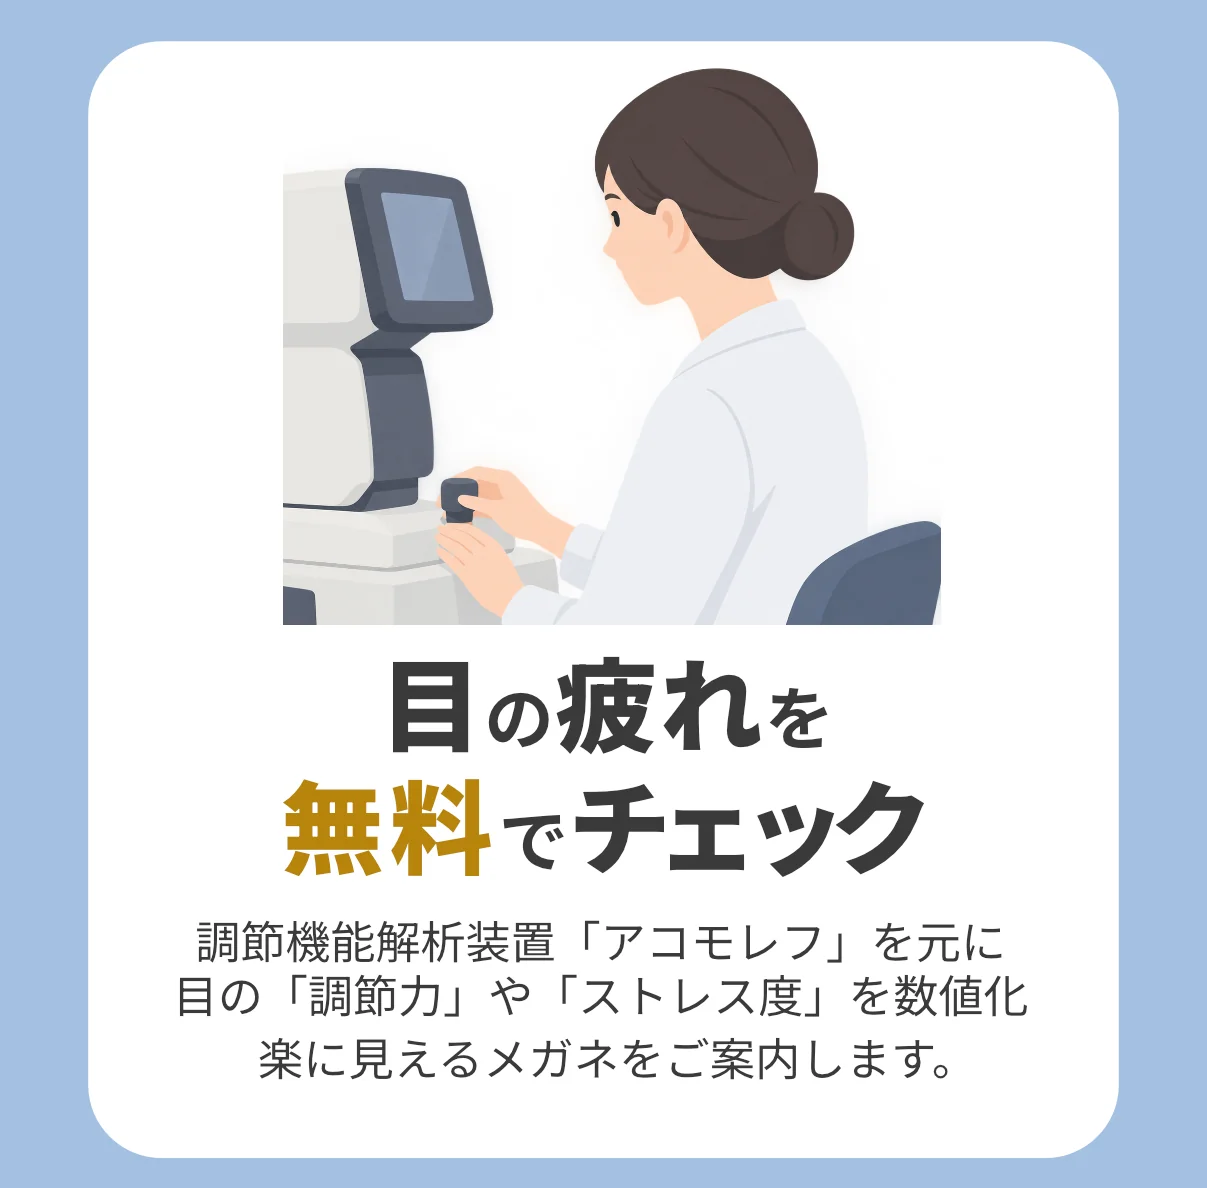
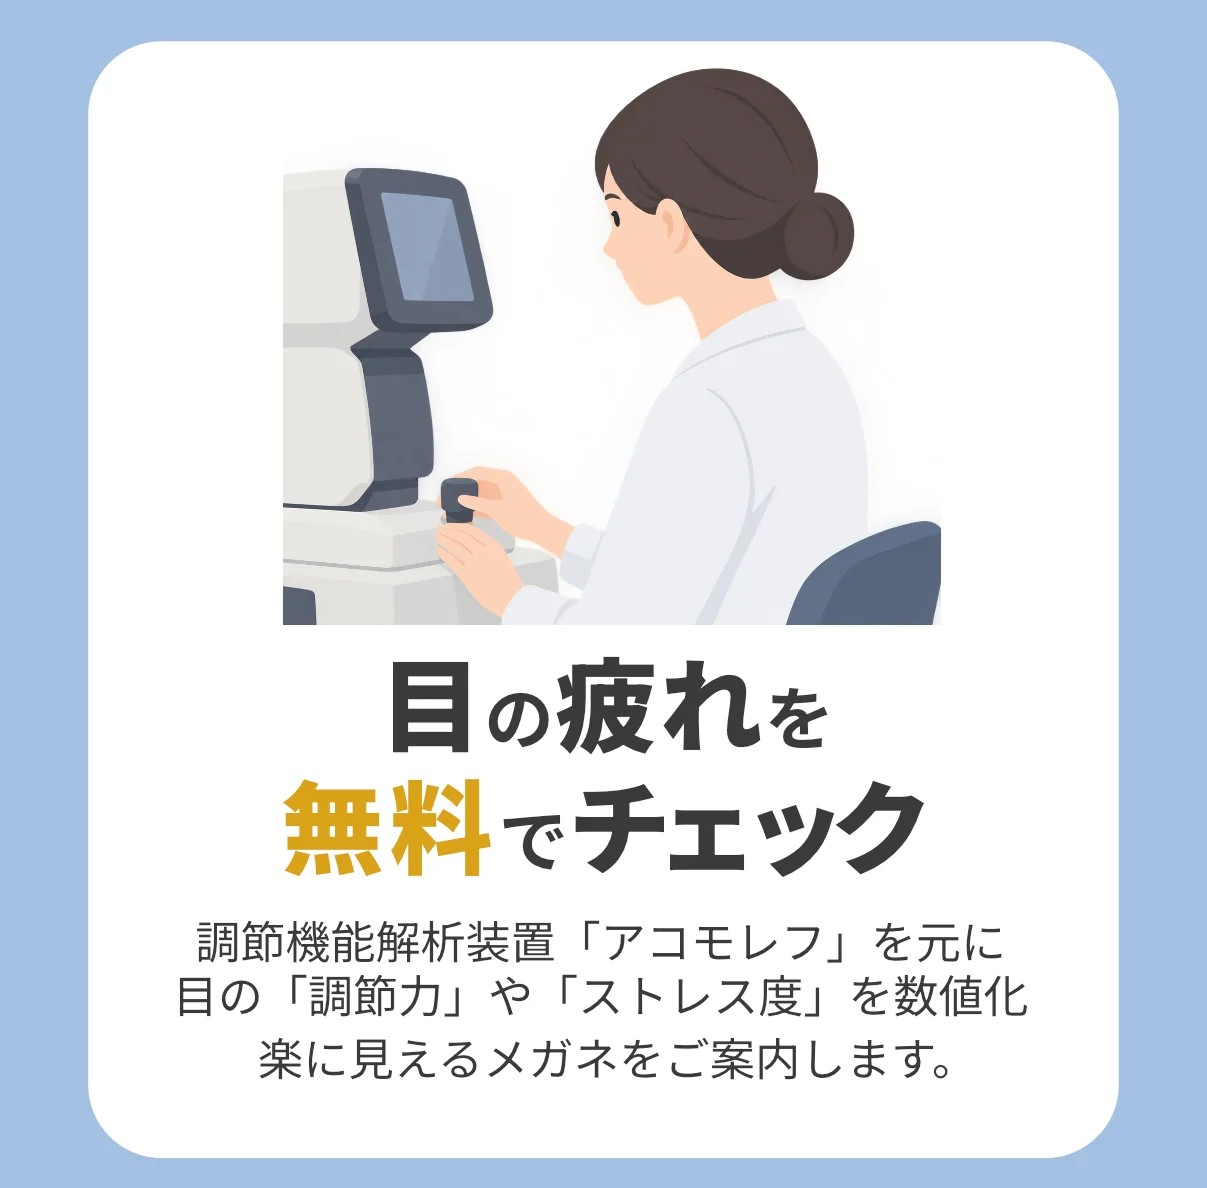
悩みカード3枚を差し替え(強調の金色を#B8860B→#DAA219に明るく)

Changed region(s): [[0.2146, 0.654, 0.3985, 0.7475]]

diff --git a/wp-deploy/page-lp-shitadori2026.php b/wp-deploy/page-lp-shitadori2026.php
@@ -915,19 +915,19 @@ $lp_assets = get_stylesheet_directory_uri() . '/lp/assets/shitadori2026/img';
         <img loading="lazy" decoding="async" class="reveal" src="<?php echo $lp_assets; ?>/nayami-1-q.webp?v=9003d79d" width="1207" height="1496" alt="こんなこと、ありませんか？ スマホやパソコンを長時間使用すると、目の疲れを感じる">
         <img loading="lazy" decoding="async" class="nayami-arrow" src="<?php echo $lp_assets; ?>/nayami-1-arrow.webp?v=789f9a3f" width="1207" height="148" alt="">
         <img loading="lazy" decoding="async" class="reveal" src="<?php echo $lp_assets; ?>/nayami-1-label.webp?v=24a1ee01" width="1207" height="146" alt="アイメガネなら">
-        <img loading="lazy" decoding="async" class="nayami-answer" src="<?php echo $lp_assets; ?>/nayami-1-a.webp?v=55db6d74" width="1207" height="1188" alt="目の疲れを無料でチェック。調節機能解析装置「アコモレフ」を元に目の「調節力」や「ストレス度」を数値化し、楽に見えるメガネをご案内します。">
+        <img loading="lazy" decoding="async" class="nayami-answer" src="<?php echo $lp_assets; ?>/nayami-1-a.webp?v=86683e06" width="1207" height="1188" alt="目の疲れを無料でチェック。調節機能解析装置「アコモレフ」を元に目の「調節力」や「ストレス度」を数値化し、楽に見えるメガネをご案内します。">
       </div>
       <div class="nayami-card">
         <img loading="lazy" decoding="async" class="reveal" src="<?php echo $lp_assets; ?>/nayami-2-q.webp?v=f8ca53c5" width="1206" height="1322" alt="メガネがズレる、かけ心地が悪い">
         <img loading="lazy" decoding="async" class="nayami-arrow" src="<?php echo $lp_assets; ?>/nayami-2-arrow.webp?v=fb81f847" width="1206" height="145" alt="">
         <img loading="lazy" decoding="async" class="reveal" src="<?php echo $lp_assets; ?>/nayami-2-label.webp?v=0b24d237" width="1206" height="143" alt="アイメガネなら">
-        <img loading="lazy" decoding="async" class="nayami-answer" src="<?php echo $lp_assets; ?>/nayami-2-a.webp?v=6610c10f" width="1206" height="1390" alt="眼鏡作製技能士がかけ心地を調整。お客様のお顔に合わせて、快適な装用感をサポートします。">
+        <img loading="lazy" decoding="async" class="nayami-answer" src="<?php echo $lp_assets; ?>/nayami-2-a.webp?v=0018082c" width="1206" height="1390" alt="眼鏡作製技能士がかけ心地を調整。お客様のお顔に合わせて、快適な装用感をサポートします。">
       </div>
       <div class="nayami-card">
         <img loading="lazy" decoding="async" class="reveal" src="<?php echo $lp_assets; ?>/nayami-3-q.webp?v=78907482" width="1206" height="1326" alt="スマホや新聞など、小さい文字が見にくい">
         <img loading="lazy" decoding="async" class="nayami-arrow" src="<?php echo $lp_assets; ?>/nayami-3-arrow.webp?v=e07177e4" width="1206" height="142" alt="">
         <img loading="lazy" decoding="async" class="reveal" src="<?php echo $lp_assets; ?>/nayami-3-label.webp?v=14550339" width="1206" height="157" alt="アイメガネなら">
-        <img loading="lazy" decoding="async" class="nayami-answer" src="<?php echo $lp_assets; ?>/nayami-3-a.webp?v=cb5fe8bf" width="1206" height="1375" alt="15項目の診断で、ぴったりの見え方に。普段よく見るもの・過ごし方をヒアリング。生活スタイルに合ったレンズ・度数をご提案します。">
+        <img loading="lazy" decoding="async" class="nayami-answer" src="<?php echo $lp_assets; ?>/nayami-3-a.webp?v=b7299742" width="1206" height="1375" alt="15項目の診断で、ぴったりの見え方に。普段よく見るもの・過ごし方をヒアリング。生活スタイルに合ったレンズ・度数をご提案します。">
       </div>
     </section>
 
